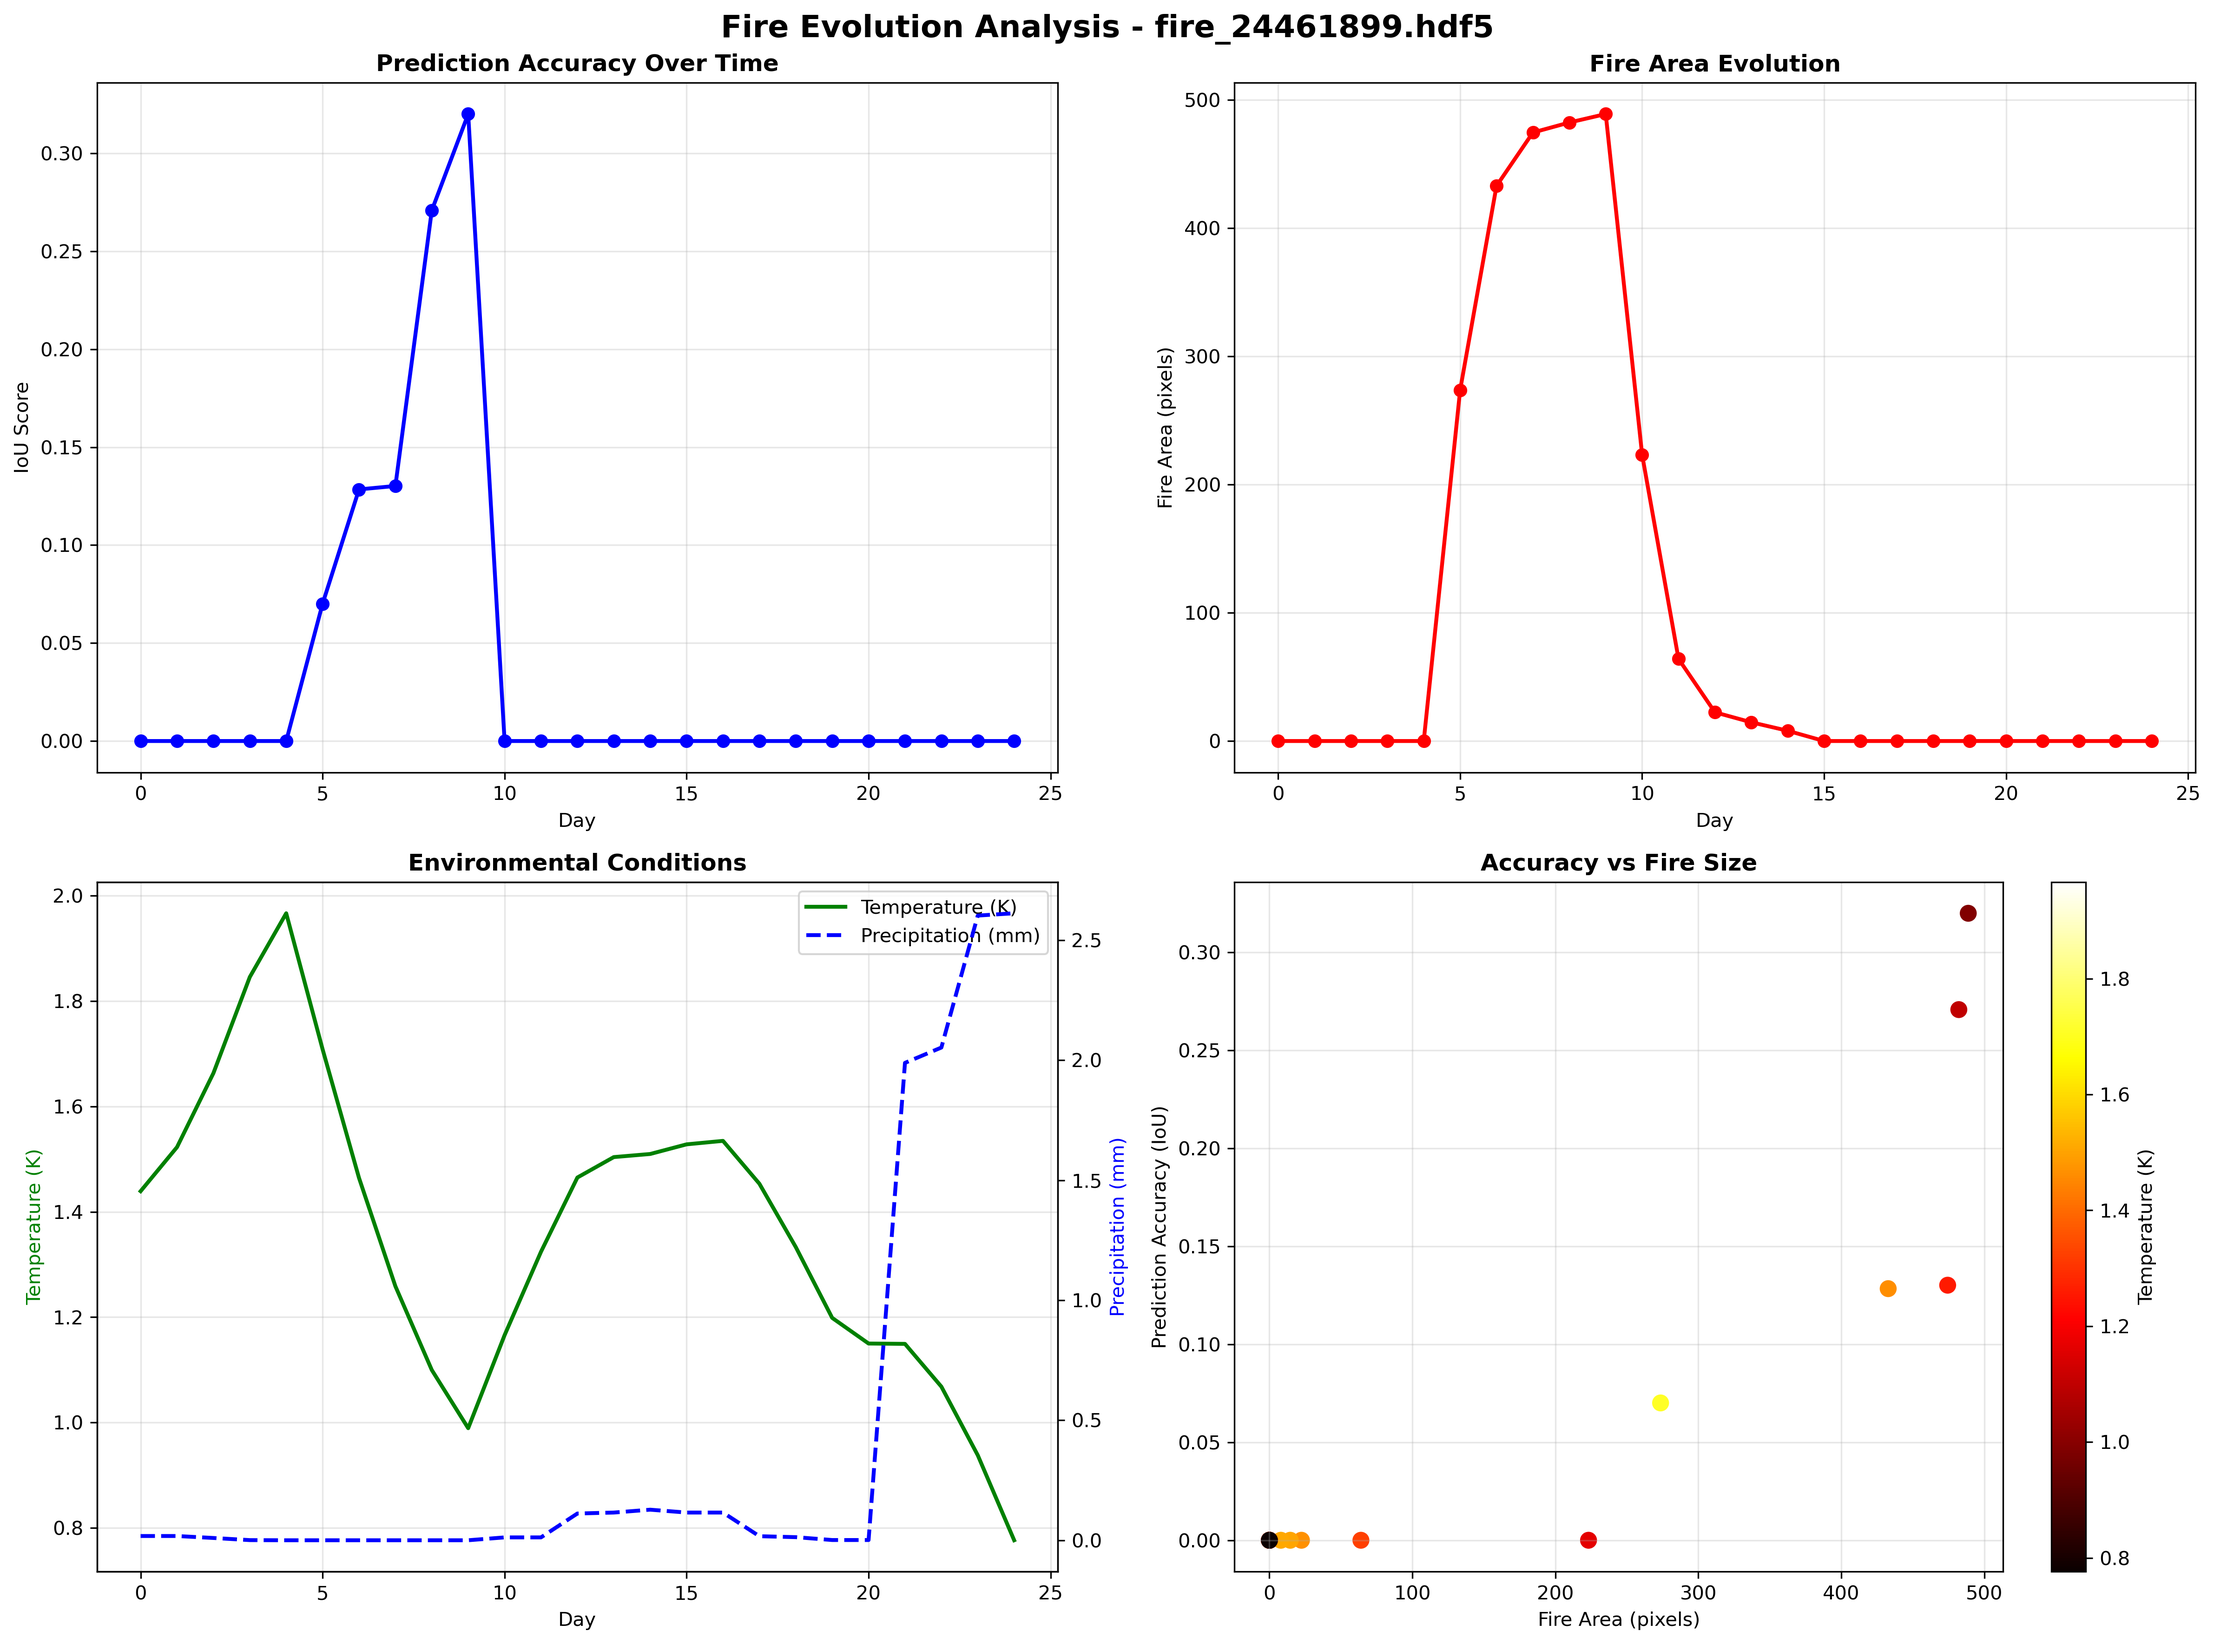
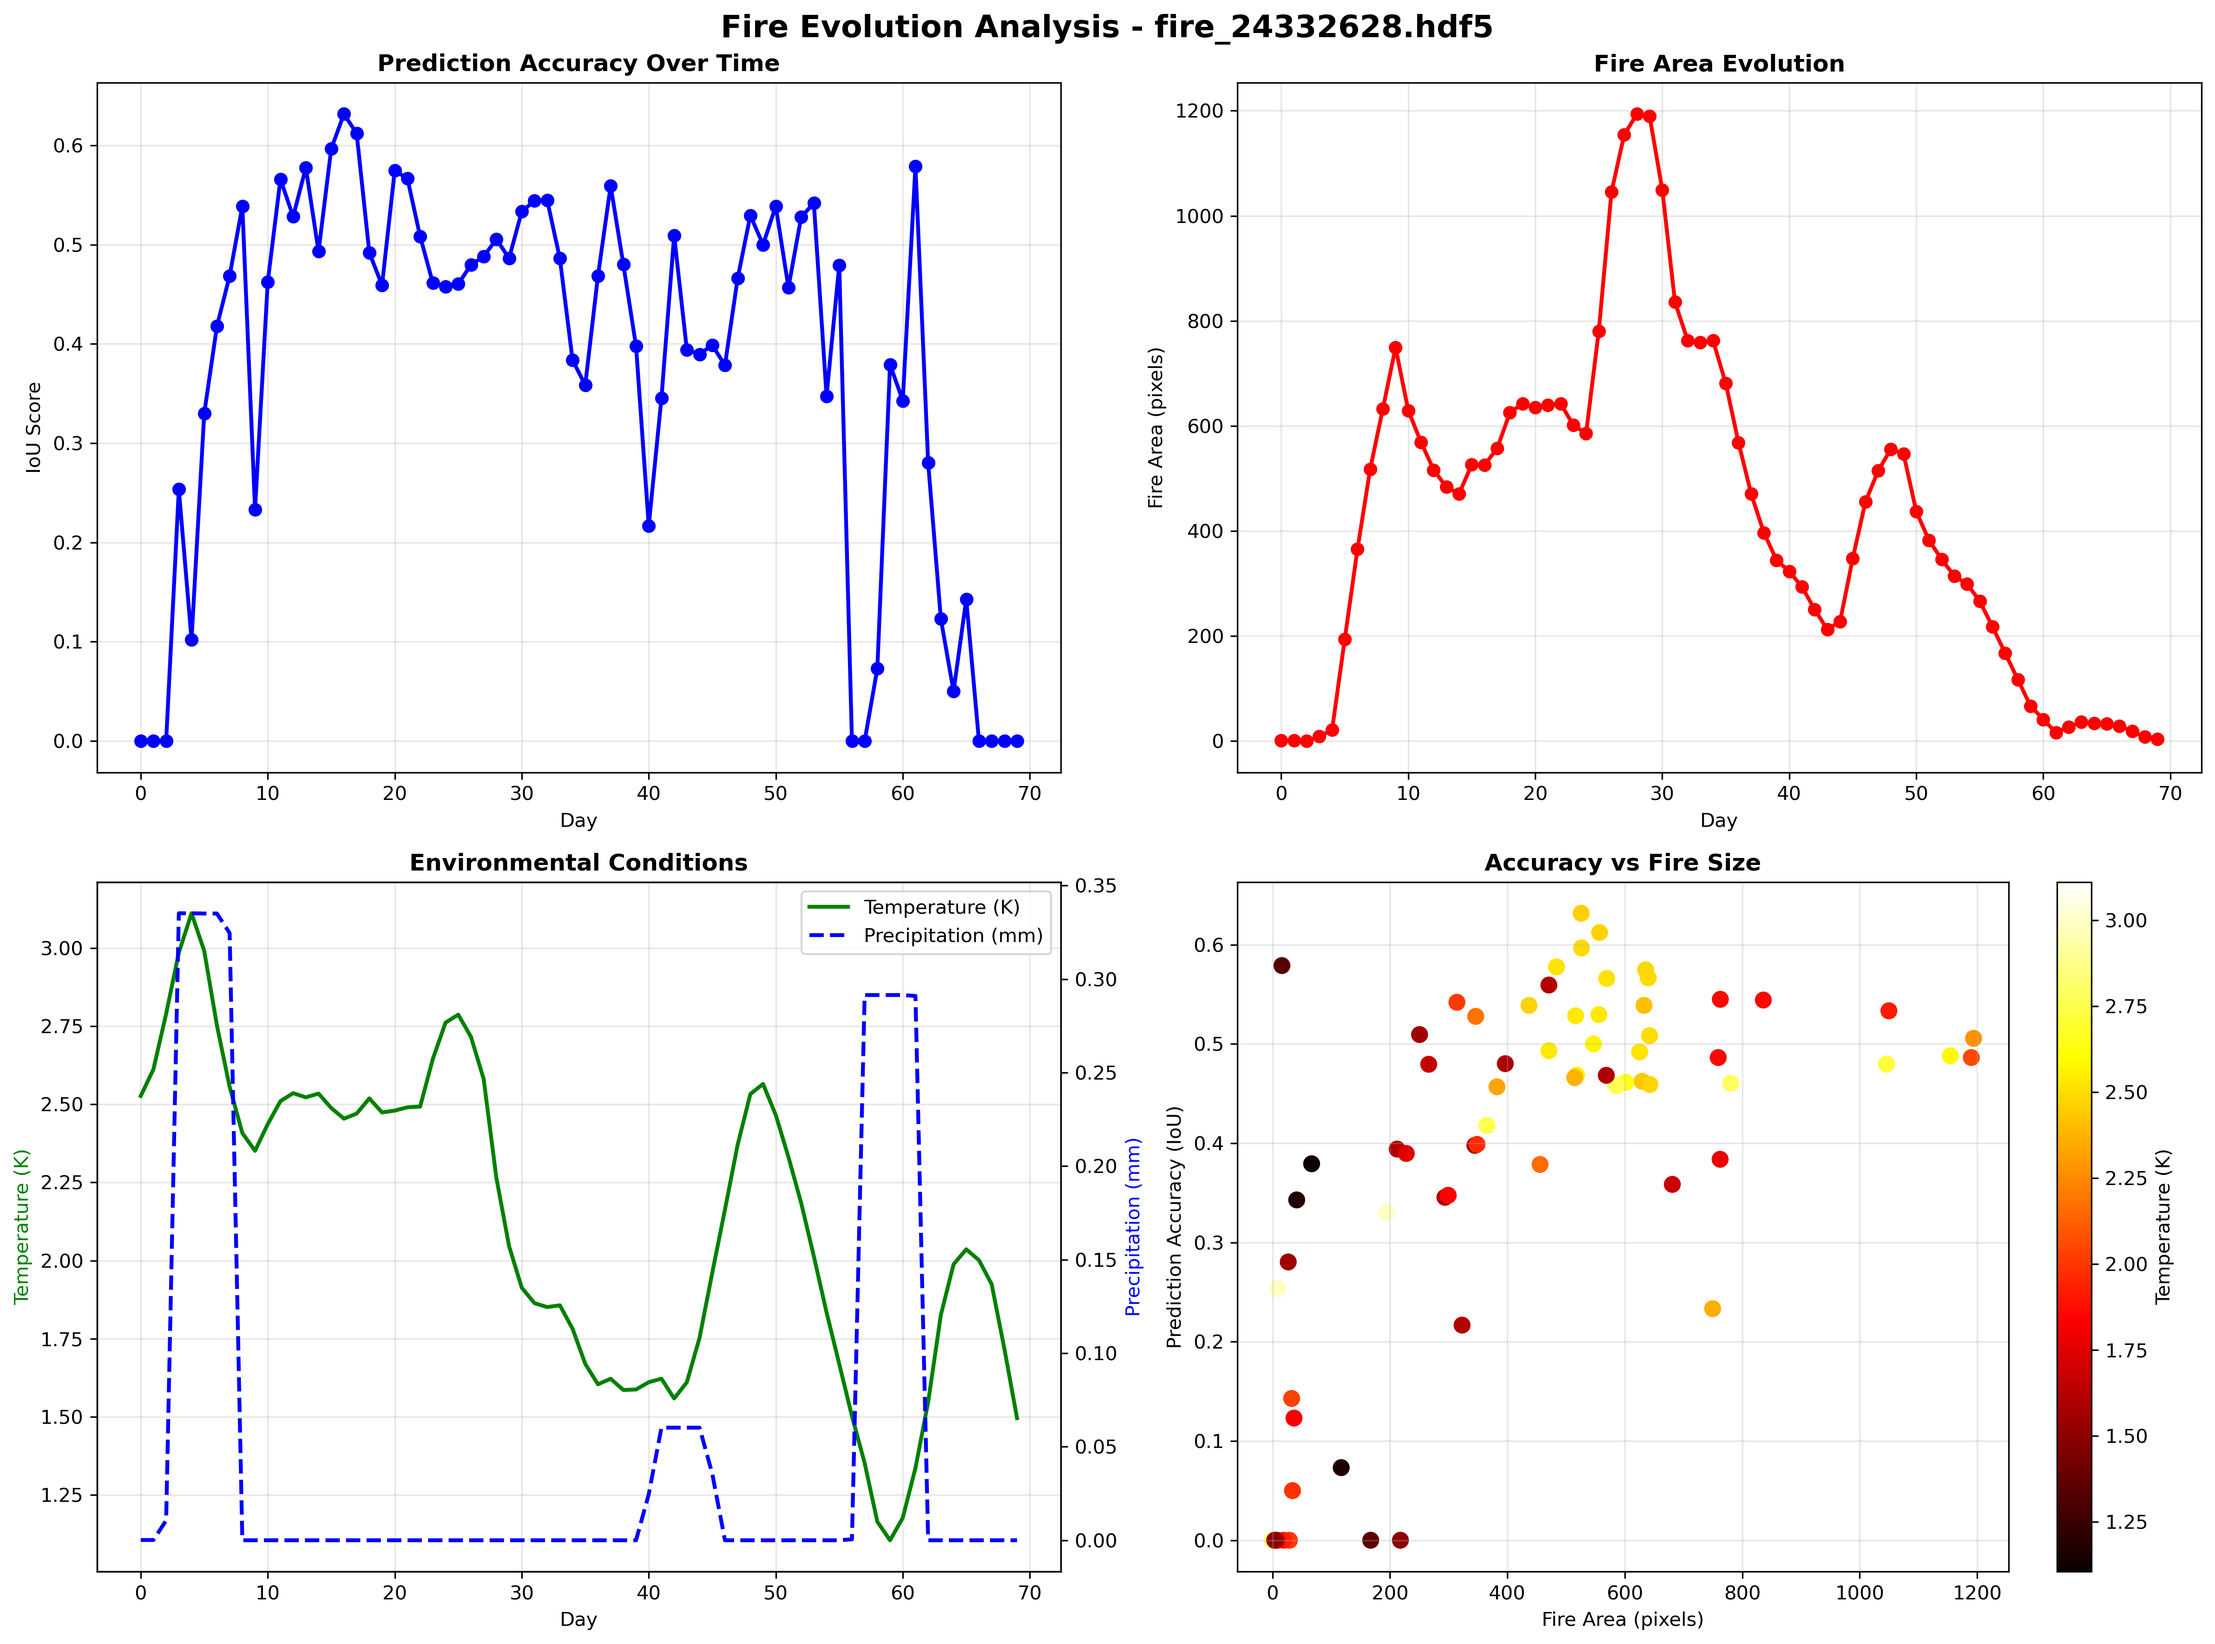
1

diff --git a/test_simulation.py b/test_simulation.py
@@ -1456,7 +1456,7 @@ def main():
     if args.demo or not args.fire_event:
         # Try to find real fire event first
         possible_files = [
-            'data/processed/2020/fire_24461899.hdf5',
+            'data/processed/2020/fire_24332628.hdf5',
             'data/processed/2019/*.hdf5',
             'data/processed/*/*.hdf5',
             'fire_*.hdf5',
